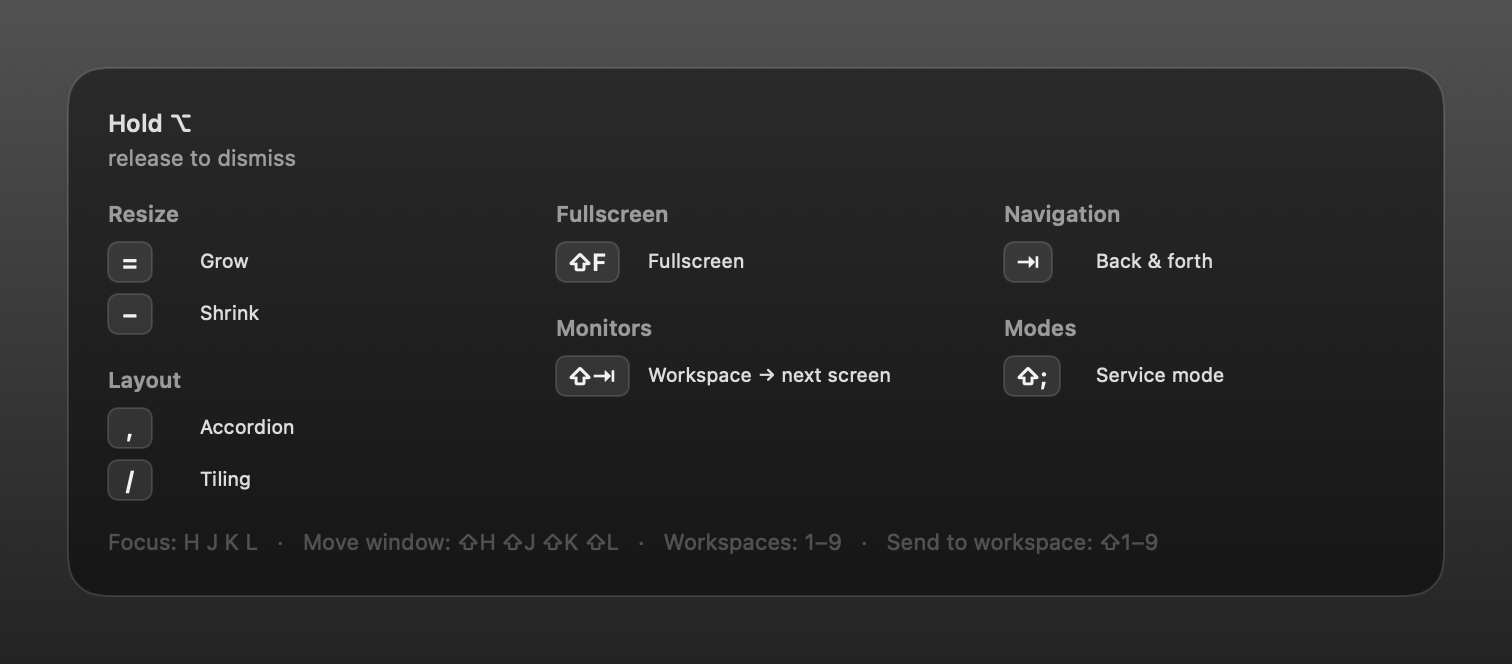
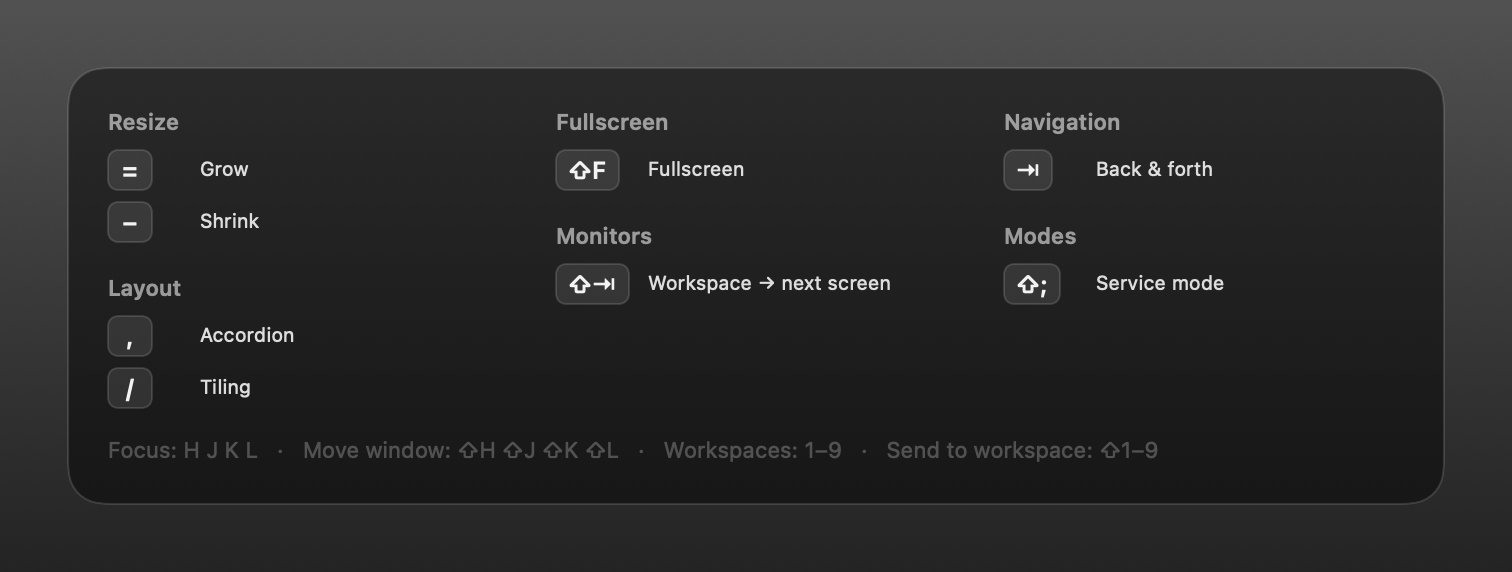
Peek has no header
'Hold Option / release to dismiss' explained what the gesture already made
obvious. The peek now starts with the groups; mode panels keep their title and
return hint because those carry information.

diff --git a/Sources/HotkeyShow/UI/CheatSheetView.swift b/Sources/HotkeyShow/UI/CheatSheetView.swift
@@ -243,8 +243,9 @@ struct SheetRowView: View {
 /// snapshot renderer, so every surface shows the same thing.
 struct CheatSheetView: View {
     let sheet: ModeSheet
-    let title: String
-    let subtitle: String
+    /// Optional: the peek has no header at all. Holding ⌥ is its own context.
+    let title: String?
+    let subtitle: String?
     let includeBasics: Bool
     let metrics: SheetMetrics
     var highlight: String? = nil
@@ -253,7 +254,9 @@ struct CheatSheetView: View {
 
     var body: some View {
         VStack(alignment: .leading, spacing: 14) {
-            header
+            if title != nil || subtitle != nil {
+                header
+            }
 
             if sheet.allGroups.isEmpty {
                 Text("No bindings configured for this mode")
@@ -299,12 +302,16 @@ struct CheatSheetView: View {
 
     private var header: some View {
         VStack(alignment: .leading, spacing: 3) {
-            Text(title)
-                .font(.system(size: metrics.headerFont, weight: .semibold))
-                .foregroundStyle(.primary)
-            Text(subtitle)
-                .font(.system(size: max(11, metrics.headerFont - 2)))
-                .foregroundStyle(.secondary)
+            if let title {
+                Text(title)
+                    .font(.system(size: metrics.headerFont, weight: .semibold))
+                    .foregroundStyle(.primary)
+            }
+            if let subtitle {
+                Text(subtitle)
+                    .font(.system(size: max(11, metrics.headerFont - 2)))
+                    .foregroundStyle(.secondary)
+            }
         }
     }
 
@@ -382,8 +389,8 @@ struct HUDContentView: View {
                 let isMain = modeID == "main"
                 CheatSheetView(
                     sheet: sheet,
-                    title: isMain ? holdTitle(sheet) : "\(modeID.capitalized) mode",
-                    subtitle: isMain ? "release to dismiss" : (sheet.returnHint ?? "modifier held"),
+                    title: isMain ? nil : "\(modeID.capitalized) mode",
+                    subtitle: isMain ? nil : (sheet.returnHint ?? "modifier held"),
                     includeBasics: includeBasics,
                     metrics: metrics,
                     highlight: state.highlight
@@ -393,10 +400,5 @@ struct HUDContentView: View {
             }
         }
         .environment(\.colorScheme, .dark)
-    }
-
-    private func holdTitle(_ sheet: ModeSheet) -> String {
-        guard !sheet.baseModifiers.isEmpty else { return "Shortcuts" }
-        return "Hold " + sheet.baseModifiers.sorted { $0.sortOrder < $1.sortOrder }.map(\.symbol).joined()
     }
 }

diff --git a/Sources/HotkeyShow/HotkeyShowApp.swift b/Sources/HotkeyShow/HotkeyShowApp.swift
@@ -139,8 +139,8 @@ private struct SnapshotCard: View {
         } else {
             CheatSheetView(
                 sheet: sheet,
-                title: isMain ? holdTitle : "\(sheet.id.capitalized) mode",
-                subtitle: isMain ? "release to dismiss" : (sheet.returnHint ?? "modifier held"),
+                title: isMain ? nil : "\(sheet.id.capitalized) mode",
+                subtitle: isMain ? nil : (sheet.returnHint ?? "modifier held"),
                 includeBasics: false,
                 metrics: isMain ? .peek : .service
             )
@@ -154,10 +154,5 @@ private struct SnapshotCard: View {
             )
             .environment(\.colorScheme, .dark)
         }
-    }
-
-    private var holdTitle: String {
-        guard !sheet.baseModifiers.isEmpty else { return "Shortcuts" }
-        return "Hold " + sheet.baseModifiers.sorted { $0.sortOrder < $1.sortOrder }.map(\.symbol).joined()
     }
 }
